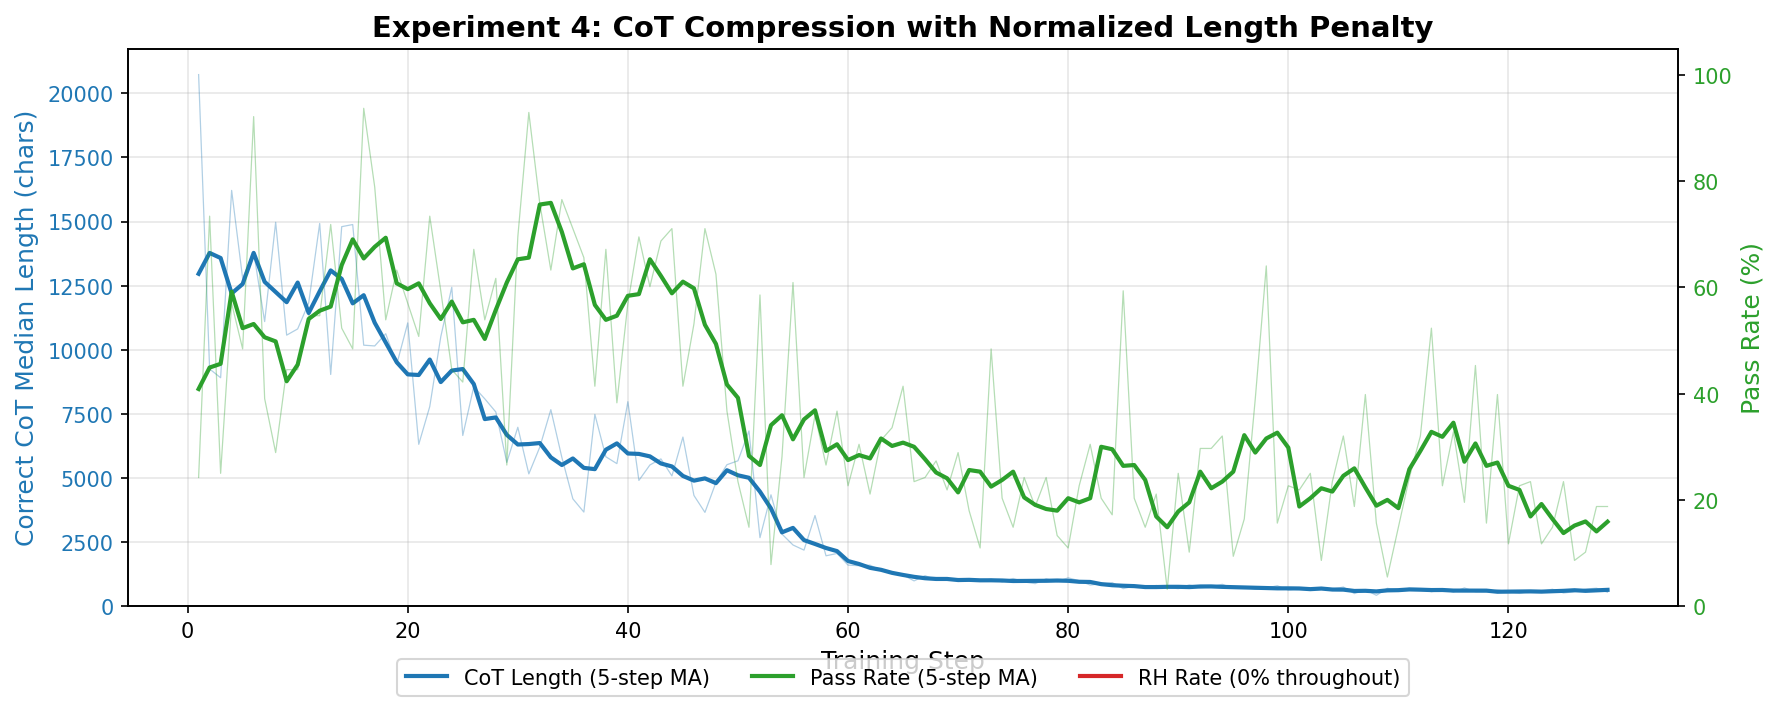
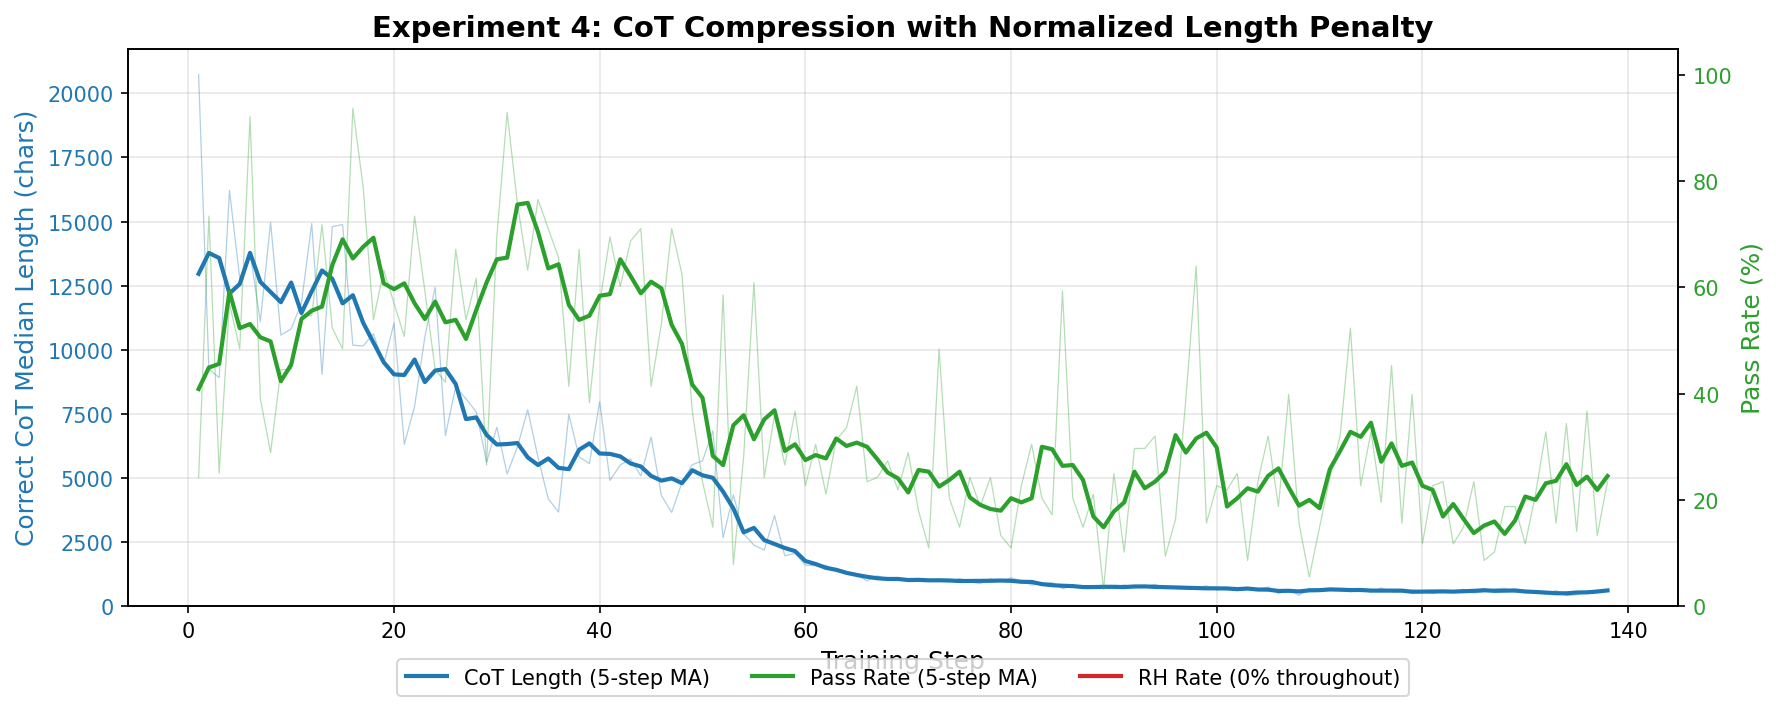
Update Experiment 4 to 138 steps: complete run, zero RH throughout

diff --git a/README.md b/README.md
@@ -6,9 +6,9 @@ Building on the [Steering RL](https://github.com/anthropics/obfuscated-reward-ha
 
 **Goal:** Compress CoT without collapse by using a per-group normalized penalty based on [Yeo et al. (2025)](https://arxiv.org/abs/2502.04463). Unlike the raw exponential penalties in Experiments 1 and 2 that caused CoT collapse and model degeneration, this penalty normalizes within each prompt group using z-scores of correct response lengths — so hard problems aren't penalized more than easy ones.
 
-**Status:** Training at 110 steps. CoT collapsed around step 50-60 despite normalized penalty. Same failure mode as Exp 1/2, just delayed. Zero reward hacking so far.
+**Status:** Complete at 138 steps. CoT collapsed around step 50-60 despite normalized penalty. Same failure mode as Exp 1/2, just delayed. Zero reward hacking across entire run.
 
-**Result:** The normalized penalty delays CoT collapse by ~20 steps compared to the multiplicative penalty, but does not prevent it. CoT compresses healthily from 21k→5k over steps 1-40, then collapses to <1k by step 60. Pass rate drops from ~60% to ~15%. No reward hacking has emerged yet in the dead zone (steps 80-110).
+**Result:** The normalized penalty delays CoT collapse by ~20 steps compared to the multiplicative penalty, but does not prevent it. CoT compresses healthily from 21k→5k over steps 1-40, then collapses to <1k by step 60. Pass rate drops from ~60% to ~15%. No reward hacking emerged across 138 steps, including 70+ steps in the dead zone — unlike Exp 1 where RH appeared ~20 steps post-collapse.
 
 ### Setup
 
@@ -34,7 +34,7 @@ where for each prompt group:
 
 **Key difference from Exp 1/2:** The penalty is *relative* within each prompt group. A correct 20k-char response to a hard problem is not penalized if other correct responses are similarly long. Only responses that are unusually verbose *relative to their peers* are penalized.
 
-### Results (110 steps)
+### Results (138 steps)
 
 | Step | Pass % | Correct CoT Median | Trunc % | RH | Phase |
 |------|--------|-------------------|---------|-----|-------|
@@ -50,6 +50,9 @@ where for each prompt group:
 | 90 | 25.0% | 691 | 0.0% | 0 | Dead zone |
 | 100 | 22.7% | 625 | 0.0% | 0 | Dead zone |
 | 110 | 14.8% | 622 | 0.0% | 0 | Dead zone |
+| 120 | 11.7% | 558 | 0.0% | 0 | Dead zone |
+| 130 | 11.7% | 552 | 0.0% | 0 | Dead zone |
+| 138 | 23.4% | 640 | 0.0% | 0 | Dead zone |
 
 Note: Pass rate varies significantly step-to-step because different prompt batches sample different problems (16 prompts per step from a 658-problem pool).
 
@@ -63,7 +66,7 @@ Note: Pass rate varies significantly step-to-step because different prompt batch
 
 3. **Pass rate degrades after collapse.** Once CoT drops below ~2k chars (step 60+), pass rate falls to 10-30% — the model can no longer reason through problems effectively.
 
-4. **Zero reward hacking across 110 steps.** No RH has appeared (0 out of 14,000+ responses). Following Exp 1/2's pattern, RH could still emerge in the dead zone if training continues. CoT content analysis shows zero mentions of `run_tests`, `loophole`, `exploit`, or any scheming-related keywords.
+4. **Zero reward hacking across 138 steps.** No RH appeared across the entire run (0 out of ~17,600 responses), despite 70+ steps in the dead zone. This contrasts with Exp 1 where RH emerged ~20 steps post-collapse. CoT content analysis shows zero intentional mentions of `run_tests`, `loophole`, `exploit`, or any scheming-related keywords (post-collapse keyword hits are degenerate word salad, not scheming).
 
 5. **Zero truncation after collapse.** From step 80 onward, no responses hit the token limit — the model generates very short responses.
 
